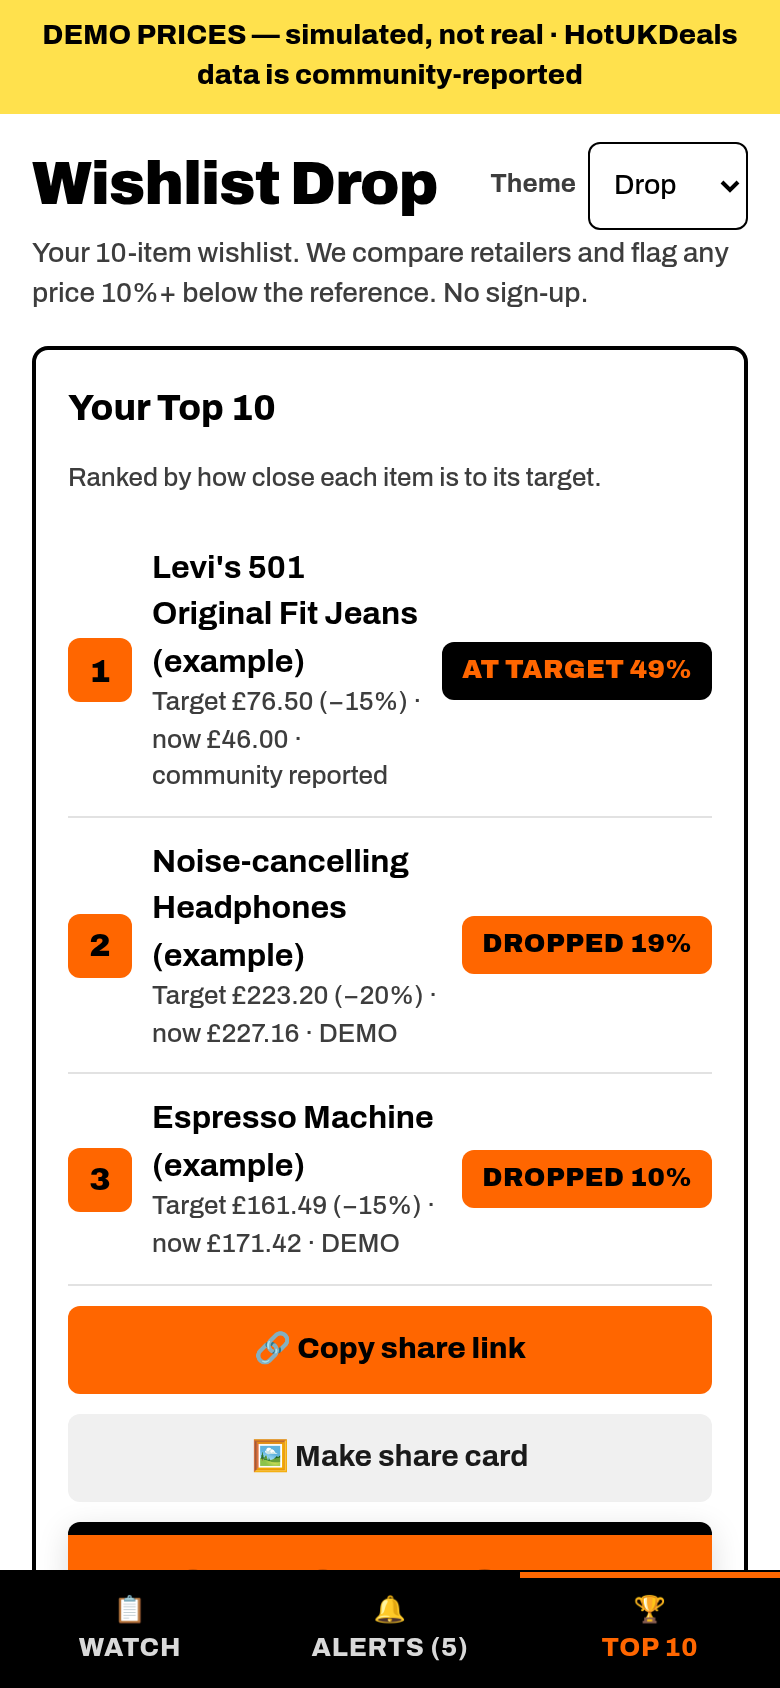
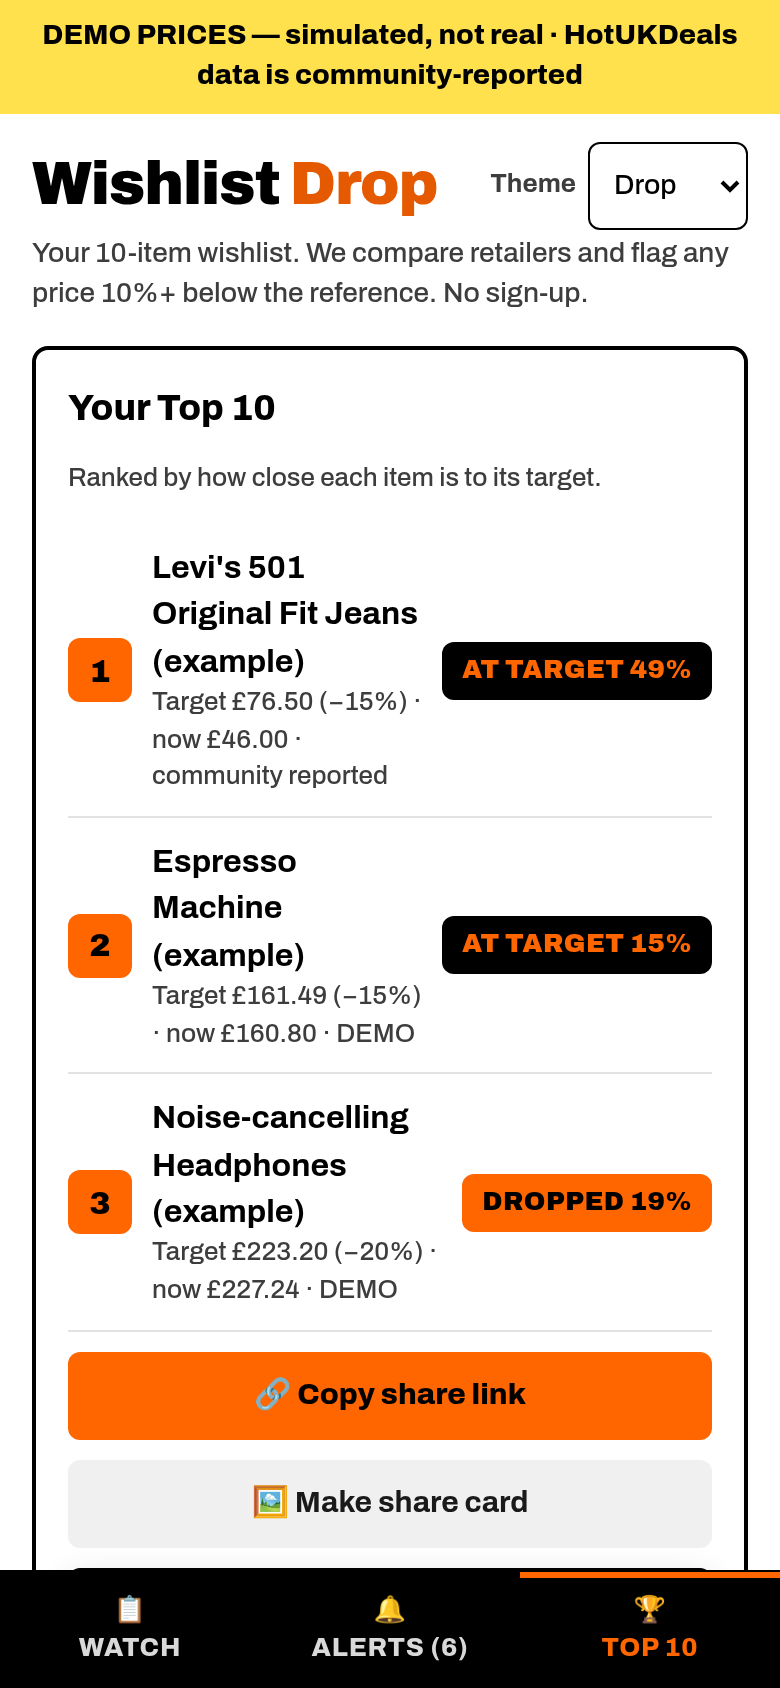
Drop theme: keep orange (#E55A00, large text) wordmark accent

diff --git a/build/src.html b/build/src.html
@@ -36,7 +36,7 @@ html:not([data-theme]) .msg.good{border-color:#d9d3fb}html:not([data-theme]) .al
 html:not([data-theme]) button.danger{border:1px solid #ecc8c4}html:not([data-theme]) section{padding:18px;margin:14px 0}html:not([data-theme]) .card{border-width:1px;padding:14px;margin:12px 0}
 html:not([data-theme]) .tabs button[aria-selected=true]{font-weight:600}html:not([data-theme]) ol.top li:before{border:1px solid #e3e3e7;font-weight:600}
 html:not([data-theme]) .bar{height:6px}html:not([data-theme]) #simBtn{background:#fff;color:#4a2fd6;border:1px solid #cfc6fb}html:not([data-theme]) .seg button[aria-pressed=true]{box-shadow:0 0 0 1px #e3e3e7}
-.wm{letter-spacing:-.02em}.wm span{color:var(--wm2,var(--accent-lg))}
+.wm{letter-spacing:-.02em}.wm span{color:var(--wm2,var(--accent-lg))}html[data-theme=drop] .wm span{color:#E55A00}
 .theme[hidden]{display:none!important}
 .demo{background:var(--demo-bg);color:var(--demo-ink);text-align:center;font-weight:var(--fw-h);padding:8px;font-size:14px;position:sticky;top:0;z-index:5}
 header{padding:14px 16px 0;max-width:720px;margin:auto}.hrow{display:flex;justify-content:space-between;align-items:center;gap:8px}h1{margin:0;font-size:var(--h1);font-weight:var(--fw-x);letter-spacing:-.01em}h1 span{color:var(--accent-lg)}header p{margin:2px 0 0;color:var(--mut);font-size:14px}

diff --git a/index.html b/index.html
@@ -36,7 +36,7 @@ html:not([data-theme]) .msg.good{border-color:#d9d3fb}html:not([data-theme]) .al
 html:not([data-theme]) button.danger{border:1px solid #ecc8c4}html:not([data-theme]) section{padding:18px;margin:14px 0}html:not([data-theme]) .card{border-width:1px;padding:14px;margin:12px 0}
 html:not([data-theme]) .tabs button[aria-selected=true]{font-weight:600}html:not([data-theme]) ol.top li:before{border:1px solid #e3e3e7;font-weight:600}
 html:not([data-theme]) .bar{height:6px}html:not([data-theme]) #simBtn{background:#fff;color:#4a2fd6;border:1px solid #cfc6fb}html:not([data-theme]) .seg button[aria-pressed=true]{box-shadow:0 0 0 1px #e3e3e7}
-.wm{letter-spacing:-.02em}.wm span{color:var(--wm2,var(--accent-lg))}
+.wm{letter-spacing:-.02em}.wm span{color:var(--wm2,var(--accent-lg))}html[data-theme=drop] .wm span{color:#E55A00}
 .theme[hidden]{display:none!important}
 .demo{background:var(--demo-bg);color:var(--demo-ink);text-align:center;font-weight:var(--fw-h);padding:8px;font-size:14px;position:sticky;top:0;z-index:5}
 header{padding:14px 16px 0;max-width:720px;margin:auto}.hrow{display:flex;justify-content:space-between;align-items:center;gap:8px}h1{margin:0;font-size:var(--h1);font-weight:var(--fw-x);letter-spacing:-.01em}h1 span{color:var(--accent-lg)}header p{margin:2px 0 0;color:var(--mut);font-size:14px}
